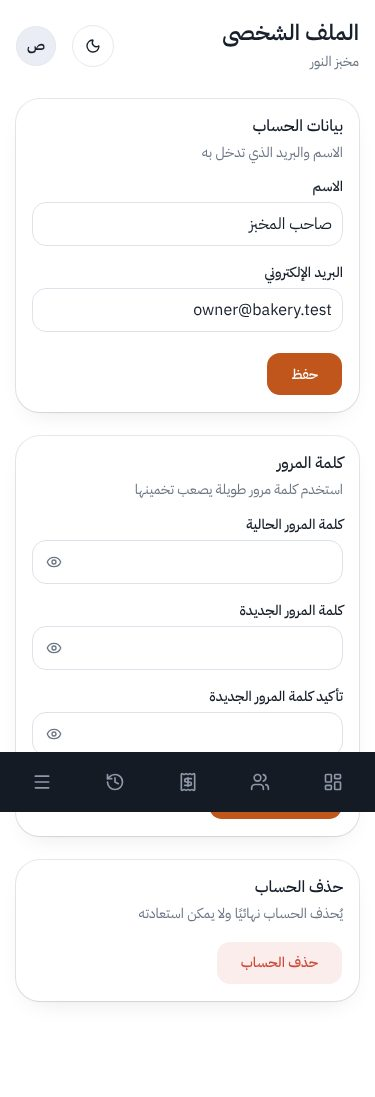
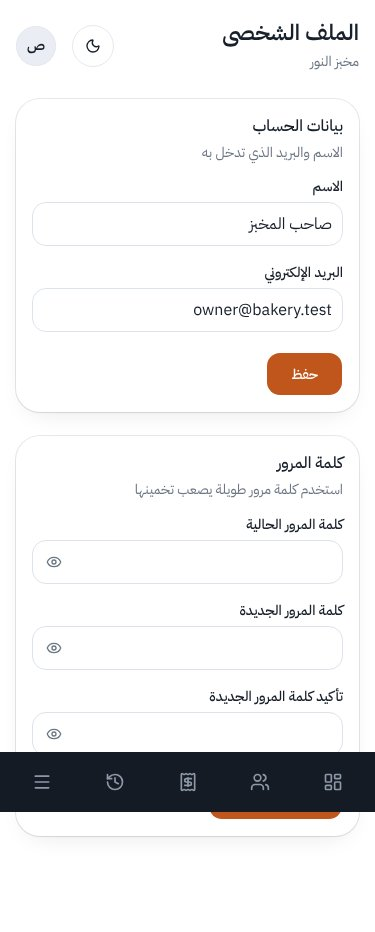
Settle the owner's open decisions: no self-deletion, per-role route names, no demo accounts in production
- Remove account deletion from the profile for every role.
- Send each role only its own Ziggy route names; the Inertia version follows the group so signing in or out reloads the page.
- Create the first super admin from ADMIN_EMAIL / ADMIN_PASSWORD; demo data only with SEED_DEMO_DATA=true.
- The customer delete warning names the balances that are lost.

Claude-Session: https://claude.ai/code/session_013hjsJ136JP3KBPzHsvM8yz

diff --git a/resources/js/Pages/Profile/Edit.tsx b/resources/js/Pages/Profile/Edit.tsx
@@ -1,7 +1,6 @@
 import { useForm, usePage } from '@inertiajs/react';
 import { LoaderCircle } from 'lucide-react';
 import type { FormEvent, ReactNode } from 'react';
-import { ConfirmDialog } from '@/components/confirm-dialog';
 import { InputError } from '@/components/input-error';
 import { PasswordInput } from '@/components/password-input';
 import { Button } from '@/components/ui/button';
@@ -108,46 +107,7 @@ function UpdatePasswordForm() {
     );
 }
 
-function DeleteAccountForm() {
-    const form = useForm({ password: '' });
-
-    const destroy = () => {
-        form.delete(route('profile.destroy'), {
-            errorBag: 'userDeletion',
-            preserveScroll: true,
-            onFinish: () => form.reset(),
-        });
-    };
-
-    return (
-        <ConfirmDialog
-            trigger={
-                <Button variant="destructive" className="h-11 px-6">
-                    حذف الحساب
-                </Button>
-            }
-            title="حذف الحساب نهائيًا؟"
-            description="سيُحذف حسابك ولا يمكن التراجع. اكتب كلمة المرور للتأكيد."
-            confirmLabel="حذف الحساب"
-            processing={form.processing}
-            onConfirm={destroy}
-        >
-            <Field id="delete_password" label="كلمة المرور" error={form.errors.password}>
-                <PasswordInput
-                    id="delete_password"
-                    autoComplete="current-password"
-                    value={form.data.password}
-                    onChange={(e) => form.setData('password', e.target.value)}
-                    aria-invalid={!!form.errors.password}
-                    aria-describedby="delete_password-error"
-                />
-            </Field>
-        </ConfirmDialog>
-    );
-}
-
 export default function Edit() {
-    const isStaff = usePage().props.auth.user?.role === 'bakery_staff';
     return (
         <AppLayout title="الملف الشخصي">
             <div className="mx-auto grid max-w-2xl gap-6">
@@ -169,18 +129,6 @@ export default function Edit() {
                         <UpdatePasswordForm />
                     </CardContent>
                 </Card>
-                {/* Staff accounts are disabled by the bakery owner, not deleted by their holder. */}
-                {!isStaff && (
-                <Card>
-                    <CardHeader>
-                        <CardTitle>حذف الحساب</CardTitle>
-                        <CardDescription>يُحذف الحساب نهائيًا ولا يمكن استعادته</CardDescription>
-                    </CardHeader>
-                    <CardContent>
-                        <DeleteAccountForm />
-                    </CardContent>
-                </Card>
-                )}
             </div>
         </AppLayout>
     );

diff --git a/resources/js/components/customer-form.tsx b/resources/js/components/customer-form.tsx
@@ -9,13 +9,16 @@ import { Button } from '@/components/ui/button';
 import { Input } from '@/components/ui/input';
 import { Textarea } from '@/components/ui/textarea';
 import { useCan } from '@/lib/can';
-import { newSubmissionId } from '@/lib/format';
+import { formatFlourBalance, formatMoney, newSubmissionId } from '@/lib/format';
 
 export interface CustomerFields {
     id: number;
     name: string;
     mobile_number: string;
     notes: string | null;
+    /** Shown in the delete warning when not zero. */
+    flour_balance_kg?: string;
+    money_balance?: string;
 }
 
 /** Create when `customer` is absent (with an optional opening flour balance), edit otherwise. */
@@ -133,6 +136,11 @@ export function CustomerDialog({ customer, open, onOpenChange }: { customer?: Cu
             onFinish: () => setDeleting(false),
         });
 
+    const balances = [
+        Number(customer?.money_balance) ? `رصيده المالي ${formatMoney(customer?.money_balance)} (${Number(customer?.money_balance) > 0 ? 'عليه' : 'له'})` : null,
+        Number(customer?.flour_balance_kg) ? `رصيد الطحين ${formatFlourBalance(customer?.flour_balance_kg)}` : null,
+    ].filter(Boolean);
+
     return (
         <DialogShell open={open} onOpenChange={onOpenChange} title={customer ? `تعديل ${customer.name}` : 'إضافة عميل'}>
             <CustomerForm customer={customer} onDone={() => onOpenChange(false)} />
@@ -146,7 +154,7 @@ export function CustomerDialog({ customer, open, onOpenChange }: { customer?: Cu
                             </Button>
                         }
                         title={`حذف «${customer.name}» نهائيًا؟`}
-                        description="تُحذف كل مبيعات العميل وكل حركات كشفيه المالي والطحين. لا يمكن التراجع عن هذا الإجراء."
+                        description={`تُحذف كل مبيعات العميل وكل حركات كشفيه المالي والطحين، ولا يمكن التراجع عن هذا الإجراء.${balances.length ? ` تنبيه: ${balances.join(' و')}، ويضيع هذا الرصيد بالحذف.` : ''}`}
                         confirmLabel="حذف نهائيًا"
                         processing={deleting}
                         onConfirm={destroy}

diff --git a/tests/Feature/ProfileTest.php b/tests/Feature/ProfileTest.php
@@ -69,40 +69,15 @@ class ProfileTest extends TestCase
         $this->assertNotNull($user->refresh()->email_verified_at);
     }
 
-    public function test_user_can_delete_their_account(): void
+    public function test_no_one_can_delete_their_own_account(): void
     {
-        $user = User::factory()->create();
+        // Deleting an account would leave a bakery without its owner or the platform without its admin.
+        foreach ([User::ROLE_SUPER_ADMIN, User::ROLE_BAKERY_OWNER] as $role) {
+            $user = User::factory()->create(['role' => $role]);
 
-        $response = $this
-            ->actingAs($user)
-            ->delete('/profile', [
-                'password' => 'password',
-            ]);
-
-        $response
-            ->assertSessionHasNoErrors()
-            ->assertRedirect('/');
-
-        $this->assertGuest();
-        $this->assertNull($user->fresh());
-    }
-
-    public function test_correct_password_must_be_provided_to_delete_account(): void
-    {
-        $user = User::factory()->create();
-
-        $response = $this
-            ->actingAs($user)
-            ->from('/profile')
-            ->delete('/profile', [
-                'password' => 'wrong-password',
-            ]);
-
-        $response
-            ->assertSessionHasErrorsIn('userDeletion', 'password')
-            ->assertRedirect('/profile');
-
-        $this->assertNotNull($user->fresh());
+            $this->actingAs($user)->delete('/profile', ['password' => 'password'])->assertStatus(405);
+            $this->assertNotNull($user->fresh());
+        }
     }
 
     public function test_guests_are_redirected_to_login_from_profile(): void

diff --git a/routes/console.php b/routes/console.php
@@ -1,8 +1,31 @@
 <?php
 
+use App\Models\User;
 use Illuminate\Foundation\Inspiring;
 use Illuminate\Support\Facades\Artisan;
+use Illuminate\Support\Facades\Hash;
+use Illuminate\Support\Facades\Validator;
+use Illuminate\Support\Str;
 
 Artisan::command('inspire', function () {
     $this->comment(Inspiring::quote());
 })->purpose('Display an inspiring quote');
+
+// First super admin of a real installation, from ADMIN_EMAIL / ADMIN_PASSWORD (docker-entrypoint.sh). Does nothing once one exists.
+// getenv() because env() returns null once the config is cached.
+Artisan::command('app:create-admin', function () {
+    if (User::where('role', User::ROLE_SUPER_ADMIN)->exists()) {
+        return $this->info('A super admin already exists; nothing to do.');
+    }
+
+    $data = ['email' => Str::lower((string) getenv('ADMIN_EMAIL')), 'password' => (string) getenv('ADMIN_PASSWORD')];
+    $validator = Validator::make($data, ['email' => ['required', 'email', 'unique:users,email'], 'password' => ['required', 'string', 'min:10']]);
+    if ($validator->fails()) {
+        $this->error(implode(' ', $validator->errors()->all()));
+
+        return 1;
+    }
+
+    User::create(['name' => 'مالك المنصة', ...$data, 'password' => Hash::make($data['password']), 'role' => User::ROLE_SUPER_ADMIN]);
+    $this->info("Super admin {$data['email']} created.");
+})->purpose('Create the first super admin from ADMIN_EMAIL and ADMIN_PASSWORD');

diff --git a/tests/Feature/RoleAccessTest.php b/tests/Feature/RoleAccessTest.php
@@ -24,6 +24,29 @@ class RoleAccessTest extends TestCase
         $this->actingAs($admin)->get('/panel/subscription-expired')->assertForbidden();
     }
 
+    public function test_each_role_receives_only_its_own_route_names(): void
+    {
+        $this->get('/login')->assertSee('"login"', false)->assertDontSee('admin.bakeries')->assertDontSee('panel.customers');
+
+        $admin = User::factory()->create(['role' => User::ROLE_SUPER_ADMIN]);
+        $this->actingAs($admin)->get('/profile')->assertSee('admin.bakeries.index')->assertDontSee('panel.customers');
+
+        $owner = User::factory()->create(['role' => User::ROLE_BAKERY_OWNER]);
+        $this->actingAs($owner)->get('/profile')->assertSee('panel.customers.index')->assertDontSee('admin.bakeries')->assertDontSee('api.');
+    }
+
+    public function test_a_page_loaded_before_signing_in_is_reloaded_in_full_after_it(): void
+    {
+        $guestVersion = $this->get('/login')->viewData('page')['version'];
+        $admin = User::factory()->create(['role' => User::ROLE_SUPER_ADMIN]);
+
+        $this->actingAs($admin)
+            ->withHeaders(['X-Inertia' => 'true', 'X-Inertia-Version' => $guestVersion])
+            ->get('/profile')
+            ->assertStatus(409)
+            ->assertHeader('X-Inertia-Location');
+    }
+
     public function test_profile_update_only_touches_the_signed_in_user(): void
     {
         $user = User::factory()->create();

diff --git a/tests/Feature/CreateAdminCommandTest.php b/tests/Feature/CreateAdminCommandTest.php
@@ -1,0 +1,44 @@
+<?php
+
+namespace Tests\Feature;
+
+use App\Models\User;
+use Illuminate\Foundation\Testing\RefreshDatabase;
+use Illuminate\Support\Facades\Hash;
+use Tests\TestCase;
+
+class CreateAdminCommandTest extends TestCase
+{
+    use RefreshDatabase;
+
+    protected function tearDown(): void
+    {
+        putenv('ADMIN_EMAIL');
+        putenv('ADMIN_PASSWORD');
+        parent::tearDown();
+    }
+
+    public function test_it_creates_the_first_super_admin_once(): void
+    {
+        putenv('ADMIN_EMAIL=Boss@Example.test');
+        putenv('ADMIN_PASSWORD=a-long-secret');
+
+        $this->artisan('app:create-admin')->assertSuccessful();
+        $admin = User::where('role', User::ROLE_SUPER_ADMIN)->sole();
+        $this->assertSame('boss@example.test', $admin->email);
+        $this->assertTrue(Hash::check('a-long-secret', $admin->password));
+
+        putenv('ADMIN_EMAIL=other@example.test');
+        $this->artisan('app:create-admin')->assertSuccessful();
+        $this->assertSame(1, User::where('role', User::ROLE_SUPER_ADMIN)->count());
+    }
+
+    public function test_it_refuses_a_bad_email_or_a_short_password(): void
+    {
+        putenv('ADMIN_EMAIL=not-an-email');
+        putenv('ADMIN_PASSWORD=short');
+
+        $this->artisan('app:create-admin')->assertFailed();
+        $this->assertDatabaseCount('users', 0);
+    }
+}

diff --git a/app/Http/Controllers/ProfileController.php b/app/Http/Controllers/ProfileController.php
@@ -4,8 +4,6 @@ namespace App\Http\Controllers;
 
 use App\Http\Requests\ProfileUpdateRequest;
 use Illuminate\Http\RedirectResponse;
-use Illuminate\Http\Request;
-use Illuminate\Support\Facades\Auth;
 use Illuminate\Support\Facades\Redirect;
 use Inertia\Inertia;
 use Inertia\Response;
@@ -34,29 +32,5 @@ class ProfileController extends Controller
         $request->user()->save();
 
         return Redirect::route('profile.edit')->with('success', 'تم حفظ بيانات الحساب');
-    }
-
-    /**
-     * Delete the user's account.
-     */
-    public function destroy(Request $request): RedirectResponse
-    {
-        // Staff accounts are the bakery owner's to disable, not the staff member's to delete.
-        abort_if($request->user()->isBakeryStaff(), 403);
-
-        $request->validateWithBag('userDeletion', [
-            'password' => ['required', 'current_password'],
-        ]);
-
-        $user = $request->user();
-
-        Auth::logout();
-
-        $user->delete();
-
-        $request->session()->invalidate();
-        $request->session()->regenerateToken();
-
-        return redirect('/');
     }
 }

diff --git a/app/Http/Middleware/HandleInertiaRequests.php b/app/Http/Middleware/HandleInertiaRequests.php
@@ -14,6 +14,21 @@ class HandleInertiaRequests extends Middleware
      */
     protected $rootView = 'app';
 
+    /** The route names the page gets (config/ziggy.php groups, `@routes` in app.blade.php). */
+    public static function routeGroup(): string
+    {
+        return auth()->user()?->isSuperAdmin() ? 'admin' : (auth()->check() ? 'panel' : 'guest');
+    }
+
+    /**
+     * Signing in or out changes the route group, so the version differs and Inertia reloads the
+     * page in full (one 409) instead of keeping the previous role's route names.
+     */
+    public function version(Request $request): ?string
+    {
+        return parent::version($request).'|'.self::routeGroup();
+    }
+
     /**
      * Define the props that are shared by default.
      *

diff --git a/tests/Feature/Owner/UserManagementTest.php b/tests/Feature/Owner/UserManagementTest.php
@@ -227,14 +227,6 @@ class UserManagementTest extends TestCase
         $this->assertSame(['view-customers'], $staff->permissions);
     }
 
-    public function test_staff_cannot_delete_their_own_account(): void
-    {
-        $staff = $this->staff($this->owner());
-
-        $this->actingAs($staff)->delete(route('profile.destroy'), ['password' => 'password'])->assertForbidden();
-        $this->assertModelExists($staff);
-    }
-
     public function test_deleting_a_bakery_removes_its_staff_and_the_admin_sees_only_owners(): void
     {
         $admin = User::factory()->create(['role' => User::ROLE_SUPER_ADMIN]);

diff --git a/routes/web.php b/routes/web.php
@@ -23,7 +23,6 @@ Route::get('/dashboard', HomeRedirectController::class)
 Route::middleware('auth')->group(function () {
     Route::get('/profile', [ProfileController::class, 'edit'])->name('profile.edit');
     Route::patch('/profile', [ProfileController::class, 'update'])->name('profile.update');
-    Route::delete('/profile', [ProfileController::class, 'destroy'])->name('profile.destroy');
 });
 
 // Site owner: manage bakeries and their subscriptions.

diff --git a/config/ziggy.php b/config/ziggy.php
@@ -1,0 +1,12 @@
+<?php
+
+// Each role's pages get only the route names they use (`@routes` in app.blade.php), not the whole app's.
+$common = ['home', 'dashboard', 'login', 'logout', 'password.*', 'profile.*', 'verification.*'];
+
+return [
+    'groups' => [
+        'guest' => $common,
+        'admin' => [...$common, 'admin.*'],
+        'panel' => [...$common, 'panel.*'],
+    ],
+];

diff --git a/resources/views/app.blade.php b/resources/views/app.blade.php
@@ -17,7 +17,7 @@
             })();
         </script>
 
-        @routes
+        @routes(\App\Http\Middleware\HandleInertiaRequests::routeGroup())
         @viteReactRefresh
         @vite(['resources/css/app.css', 'resources/js/app.tsx'])
         @inertiaHead
